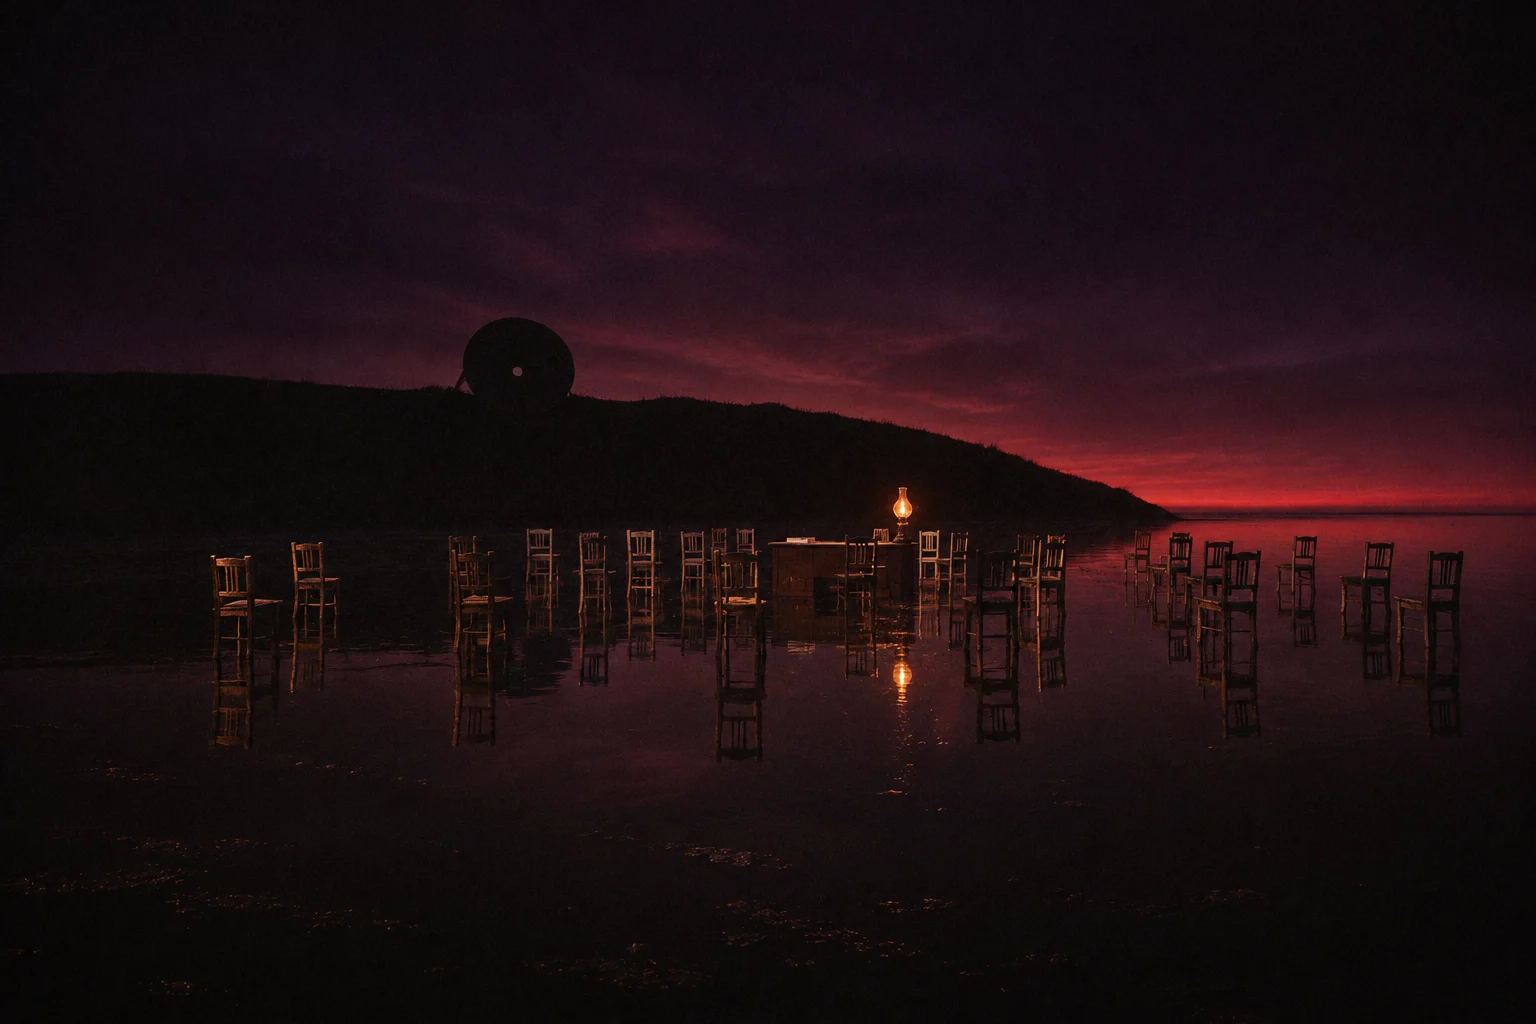
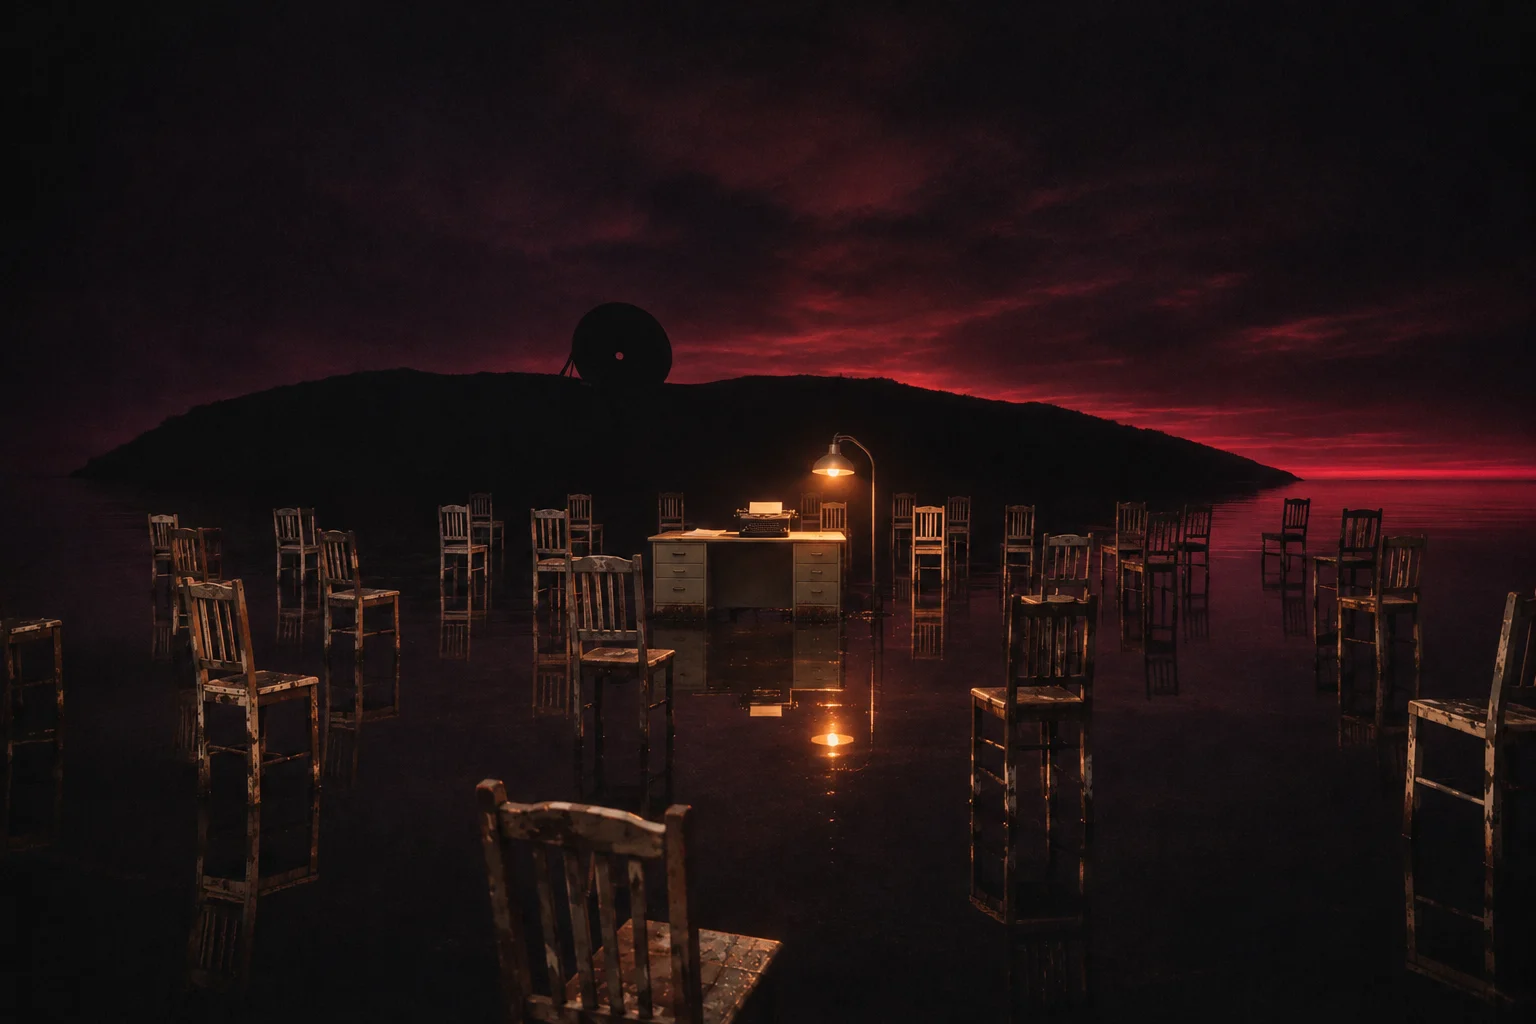
Integrate painted spiral and revised shore, thin the live wires

diff --git a/src/episodes/deaf-point/scenes/spiral.ts b/src/episodes/deaf-point/scenes/spiral.ts
@@ -100,7 +100,7 @@ function wires(q: Quality) {
         vec3 w=aBase+aDir*y*L;
         float f=mix(5.,1.,p);
         float tw=sin(p*210.-uT*2.3*f+s*1.2);
-        float env=exp(-pow((p-uWave)*18.,2.));
+        float env=exp(-pow((p-uWave)*42.,2.));
         float k=y*y;
         vec3 sway=vec3(sin(uT*.9+s*40.),0.,cos(uT*.7+s*30.))*.04*(1.-uStill);
         w+=normalize(cross(aDir,vec3(.3,.2,.9)))*tw*(.05*uAmp+env*.3)*k*(1.-uStill*.9)+sway*k;
@@ -110,7 +110,7 @@ function wires(q: Quality) {
         vec3 side=normalize(cross(aDir,uCam-w));
         float dist=distance(uCam,w);
         // never thinner than about a pixel; beyond that a wire fades instead of breaking into dashes
-        float width=mix(.013,.004,y);
+        float width=mix(.0055,.0018,y);
         float px=dist*uPx;
         vFade=clamp(width/px*2.5,.3,1.);
         vec3 pos=w+side*position.x*max(width,px);
@@ -121,10 +121,10 @@ function wires(q: Quality) {
     fragmentShader: /* glsl */ `
       varying float vTip,vLit,vFog,vNear,vFade;
       void main(){
-        vec3 c=mix(vec3(.02,.021,.025),vec3(.6,.58,.54),vTip*vTip)*(.25+.75*vNear);
-        c=mix(c,vec3(1.,.42,.07)*2.4,vLit*vTip);
+        vec3 c=mix(vec3(.02,.021,.025),vec3(.44,.43,.4),vTip*vTip)*(.25+.75*vNear);
+        c=mix(c,vec3(1.,.42,.07)*1.1,vLit*vTip);
         c=mix(c,vec3(.004,.005,.008),vFog);
-        gl_FragColor=vec4(c,vFade*(1.-vFog*.8));
+        gl_FragColor=vec4(c,vFade*(1.-vFog*.8)*(.3+.7*vNear));
       }`,
   })
   const mesh = new THREE.Mesh(g, m)

diff --git a/src/core/quality.ts b/src/core/quality.ts
@@ -13,9 +13,9 @@ export interface Quality {
 }
 
 const TIERS: Record<QualityName, Omit<Quality, 'name'>> = {
-  cinematic: { dpr: 2, shadows: 2048, bloom: true, msaa: 4, dust: 900, rain: 1600, wires: 22000, seaDetail: 3 },
-  balanced: { dpr: 1.25, shadows: 1024, bloom: true, msaa: 2, dust: 450, rain: 700, wires: 11000, seaDetail: 2 },
-  lite: { dpr: 1.5, shadows: 0, bloom: false, msaa: 0, dust: 160, rain: 220, wires: 4200, seaDetail: 1 },
+  cinematic: { dpr: 2, shadows: 2048, bloom: true, msaa: 4, dust: 900, rain: 1600, wires: 9000, seaDetail: 3 },
+  balanced: { dpr: 1.25, shadows: 1024, bloom: true, msaa: 2, dust: 450, rain: 700, wires: 5000, seaDetail: 2 },
+  lite: { dpr: 1.5, shadows: 0, bloom: false, msaa: 0, dust: 160, rain: 220, wires: 2400, seaDetail: 1 },
 }
 
 export const quality = (name: QualityName): Quality => ({ name, ...TIERS[name] })

diff --git a/PERFORMANCE.md b/PERFORMANCE.md
@@ -35,7 +35,7 @@ No se ha medido en un móvil físico. Las capturas de teléfono son emuladas sob
 | Sombras | 2048 | 1024 | No |
 | Bloom y AO | Sí | Sí | No |
 | MSAA | 4× | 2× | No |
-| Alambres de la espiral | 22 000 | 11 000 | 4 200 |
+| Alambres de la espiral | 9 000 | 5 000 | 2 400 |
 | Cilindros | 16 000 | 16 000 | 7 500 |
 
 LITE conserva toda la narrativa e interacciones. Prefiere más resolución y menos efectos, porque en un móvil se nota más lo primero.
@@ -51,5 +51,5 @@ LITE conserva toda la narrativa e interacciones. Prefiere más resolución y men
 ## Pendiente
 
 - KTX2 no se usó porque `toktx` no está instalado. Las texturas son WebP, que ocupan más memoria de GPU.
-- Las once vistas pintadas pesan 1,3 MB en total. Con el 3D debajo aún activo no ahorran GPU; ocultarlo sería una mejora posible.
+- Las dieciséis vistas pintadas pesan 1,9 MB en total. Con el 3D debajo aún activo no ahorran GPU; ocultarlo sería una mejora posible.
 - Las vistas son de 1536 × 1024: en pantallas 4K se notará que están ampliadas.

diff --git a/ASSETS_TO_GENERATE.md b/ASSETS_TO_GENERATE.md
@@ -1,6 +1,6 @@
 # Imágenes para generar con ChatGPT
 
-**Estado: las once están generadas e integradas en `public/assets/plates/`.** Los originales están en `assets-src/plates/`. Este documento queda para regenerar alguna.
+**Estado: las dieciséis están generadas e integradas en `public/assets/plates/`.** Los originales están en `assets-src/plates/`. Este documento queda para regenerar alguna.
 
 Cada una se proyecta sobre un encuadre fijo, como un matte painting de cine. La luz que parpadea, el polvo, la lluvia y las marcas interactivas siguen vivos encima.
 
@@ -144,7 +144,7 @@ Close view from behind a steel desk standing in black water. On the desk a 1930s
 
 ## Segunda tanda
 
-Seis imágenes más, que cierran lo que la revisión independiente dejó abierto.
+Seis imágenes más, ya integradas. `other-shore` sustituye a la de la primera tanda. Nota: `docs/plate-refs/spiral-s5.jpg` sale negra; el resultado actual se generó a partir del prompt.
 
 Para cada una de las cinco de la espiral:
 

diff --git a/ASSET_SOURCES.md b/ASSET_SOURCES.md
@@ -36,7 +36,7 @@ SINIUS, *The Silence Before the Haunting*, CC BY 4.0, [Free Music Archive](https
 
 ## Vistas pintadas
 
-Once imágenes generadas con ChatGPT por el dueño del proyecto a partir de `docs/plate-refs/`, con los prompts de ASSETS_TO_GENERATE.md. Convertidas a WebP calidad 86, sin retoque. Ruta: `public/assets/plates/`.
+Dieciséis imágenes generadas con ChatGPT por el dueño del proyecto a partir de `docs/plate-refs/`, con los prompts de ASSETS_TO_GENERATE.md. Convertidas a WebP calidad 86, sin retoque. Ruta: `public/assets/plates/`.
 
 ## Texturas y modelos
 

diff --git a/ROADMAP.md b/ROADMAP.md
@@ -9,7 +9,7 @@
 
 ## Después
 
-- Pintar la espiral y un plano por transición: hoy son lo único que sigue en 3D puro.
+- Pintar los movimientos de cámara y las transiciones: hoy son lo único que sigue en 3D puro.
 - Versiones a mayor resolución de las vistas pintadas para pantallas 4K.
 
 - Más cilindros: un registro completo de las 41 personas.
